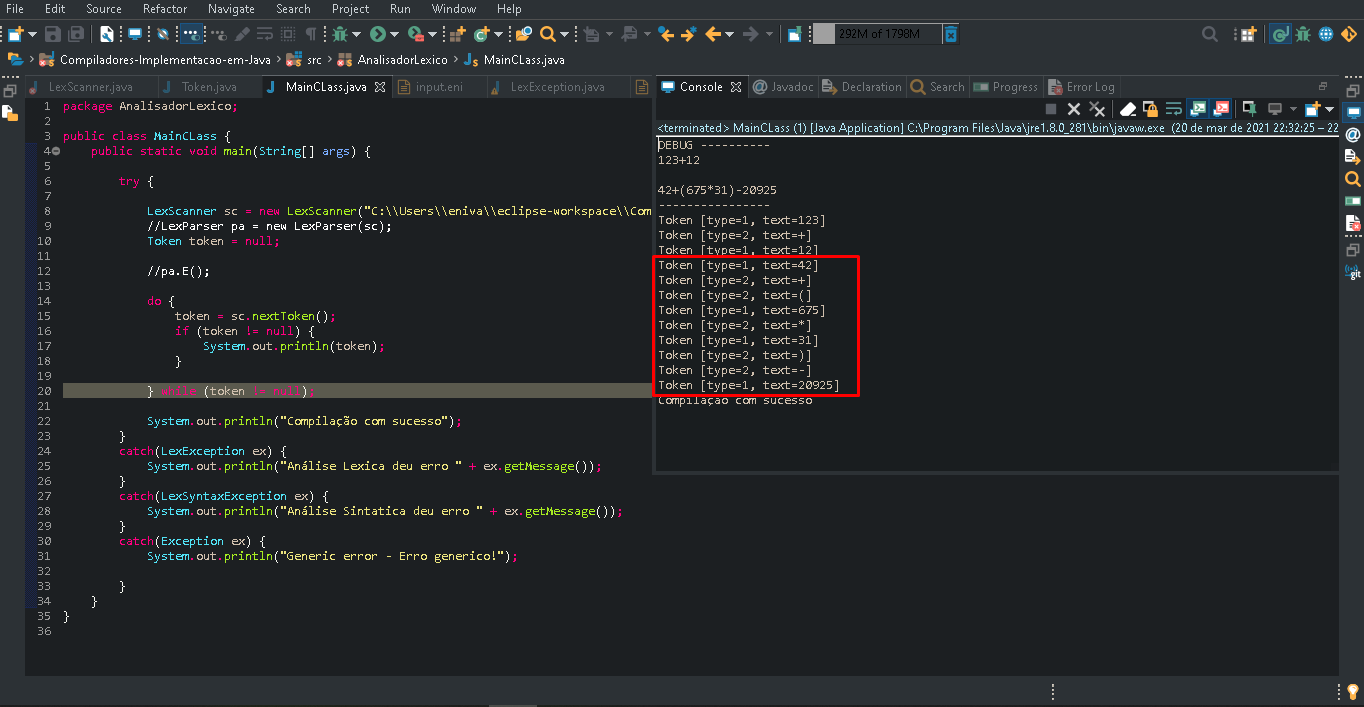
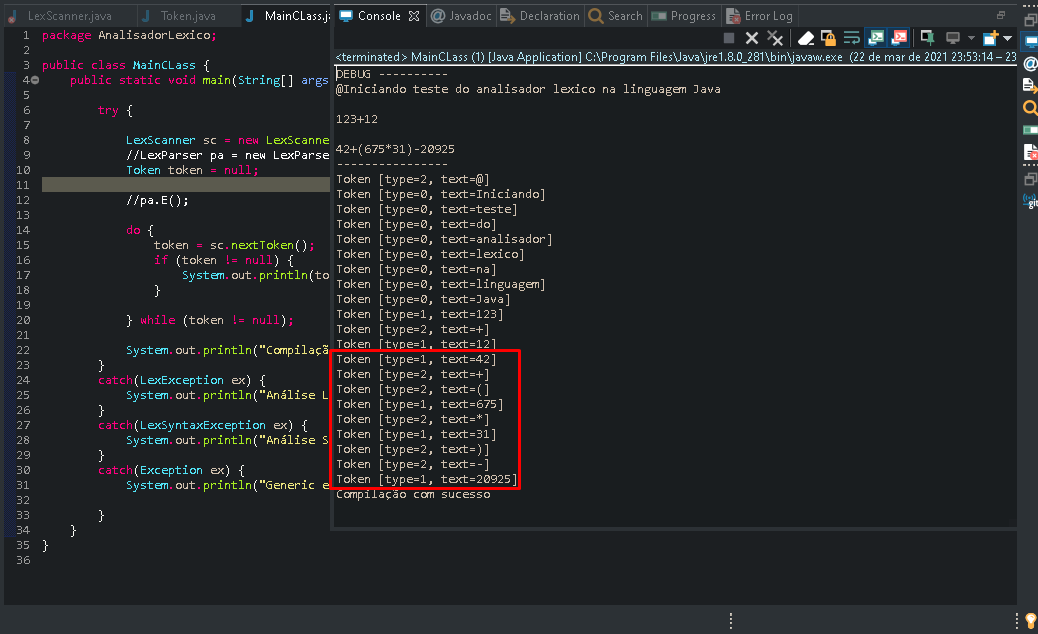
Ajustes e inserção de imagens

diff --git a/src/AnalisadorLexico/LexScanner.java b/src/AnalisadorLexico/LexScanner.java
@@ -136,7 +136,7 @@ public class LexScanner {
 	}
 	
 	private boolean isOperator(char c) {
-		return c == '>' || c == '<' || c == '=' || c == '!' || c == '+' || c == '-' || c == '*' || c == '/' || c=='(' || c==')';
+		return c == '>' || c == '<' || c == '=' || c == '!' || c == '+' || c == '-' || c == '*' || c == '/' || c=='(' || c==')' || c=='@''';
 	}
 	
 	private boolean isSpace(char c) {
